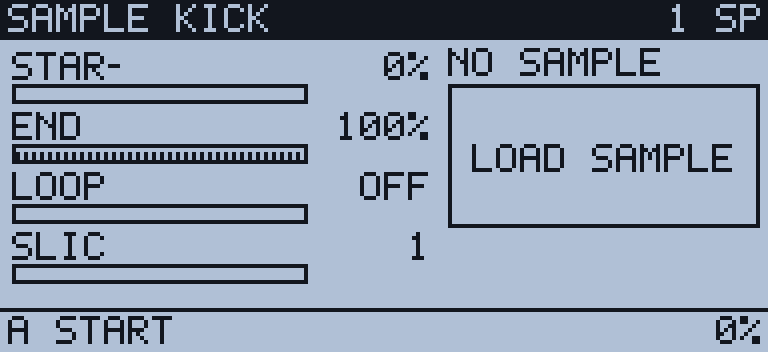
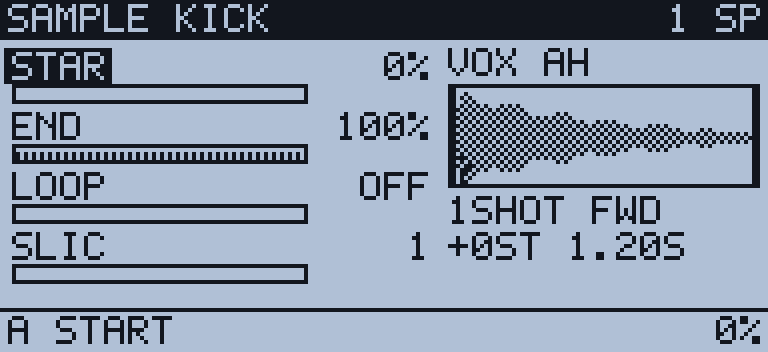
LCD legibility pass: inverse focus, exact knockout, honest page content
- Added Lcd.inverseText(): knocks glyphs out of an exactly-sized bar with one pixel of
  bearing, so selected rows and the focused parameter label stay crisp instead of
  being destroyed by a fill drawn over the text.
- Focused parameter labels are now inverted (hardware behaviour) rather than marked
  with an arrow that read like part of the label ('SPEE-' / 'P.EN-').
- PATTERN rows are label-only with number + M/S/play marker, 5-char names and a wider
  grid, matching the reference pattern screen.
- MOD page shows the real modulation routing instead of repeating the four sliders.
- SETUP reports actual state (host, audio, contrast, position as bars.beats in BPM
  from the engine frame counter) instead of a stale clock and a page name.
- SAMPLE page reserves two lines for its readout, so '1SHOT FWD' and '+0ST 1.200S'
  no longer collide.
- MONO blurb clipped to the column; FX page right column no longer overflows.
- LCD shots register the factory samples so the SAMPLE screen renders as in the app.

diff --git a/src/ui/pages.ts b/src/ui/pages.ts
@@ -77,13 +77,13 @@ function slider(
   opts: { focus?: boolean; locked?: boolean; automated?: boolean; label?: string } = {},
 ) {
   const def = PARAM_DEFS[key];
-  const label = (opts.label ?? def?.label ?? key).slice(0, 4);
-  lcd.text(x, y, label);
-  // focus marker sits in the label gutter as a solid bar, never as a glyph that would
-  // collide with the value text on the right
-  if (opts.focus) lcd.focusBar(x + 24, y + 3, 3);
-  if (opts.locked) lcd.text(x + 30, y, '\u00a7');
-  else if (opts.automated) lcd.text(x + 30, y, '~');
+  const label = (opts.label ?? def?.label ?? key).slice(0, 4).padEnd(4, ' ');
+  // Focus is shown the way the hardware shows it: the label is knocked out of a solid
+  // bar. No extra glyph is added, so nothing can be mistaken for part of the label.
+  if (opts.focus) lcd.inverseText(x, y, label, 2, 1);
+  else lcd.text(x, y, label);
+  if (opts.locked) lcd.text(x + 31, y, '\u00a7');
+  else if (opts.automated) lcd.text(x + 31, y, '~');
   lcd.textRight(x + w, y, formatValue(key, norm));
   lcd.valueBar(x, y + 8, w - 30, norm, { bipolar: !!def?.bipolar, h: 5 });
 }
@@ -143,7 +143,7 @@ function drawPattern(lcd: Lcd, store: Store, status: Status) {
   );
 
   const rowH = 8;
-  const gridX = 60;
+  const gridX = 56;
   const cellW = 8;
   const cellInner = 6;
   for (let t = 0; t < 8; t++) {
@@ -151,15 +151,14 @@ function drawPattern(lcd: Lcd, store: Store, status: Status) {
     const tp = pat.tracks[t];
     const p = store.trackParams(t);
     const isCur = t === store.project.currentTrack;
-    if (isCur) lcd.fillRect(0, y - 2, LCD_W, rowH + 1);
-    // track number, current marker, mute flag, name, engine tag
-    lcd.text(1, y, String(t + 1), { inverse: isCur });
-    if (isCur) lcd.text(7, y, '▶', { inverse: true });
-    if (tp.muted || p.mute) lcd.text(7, y, 'M', { inverse: isCur });
-    else if (p.solo) lcd.text(7, y, 'S', { inverse: isCur });
-    lcd.text(14, y, store.kit.tracks[t].name.slice(0, 4), { inverse: isCur });
-    // engine tag (2 chars) in its own column so the name never collides with it
-    lcd.text(40, y, trackTag(p), { inverse: isCur });
+    // selection bar: only behind the label column, so the step grid stays readable.
+    // Shape: "1▶NAME" (number, play marker or M/S flag, name) then the engine tag.
+    // PATTERN rows are label-only (the engine tag lives on KIT/SOUND), which keeps the
+    // step grid wide and matches the hardware's pattern screen.
+    const flag = tp.muted || p.mute ? 'M' : p.solo ? 'S' : isCur ? '\u25b6' : ' ';
+    const label = `${t + 1}${flag} ${store.kit.tracks[t].name.slice(0, 5)}`;
+    if (isCur) lcd.inverseText(1, y, label, 2, 1);
+    else lcd.text(1, y, label);
     // steps
     for (let i = 0; i < viewSteps; i++) {
       const stepIndex = pageStart + i;
@@ -212,10 +211,12 @@ function drawKit(lcd: Lcd, store: Store, status: Status) {
     const p = store.trackParams(t);
     const isCur = t === store.project.currentTrack;
     // Hardware-style selection: a solid bar with the row knocked out of it.
-    if (isCur) lcd.fillRect(0, y - 2, LCD_W, rowH + 1);
-    lcd.text(1, y, String(t + 1), { inverse: isCur });
-    lcd.text(8, y, store.kit.tracks[t].name.slice(0, 8), { inverse: isCur });
-    lcd.text(60, y, trackTag(p), { inverse: isCur });
+    if (isCur) lcd.inverseText(1, y, ` ${t + 1} ${store.kit.tracks[t].name.slice(0, 8).padEnd(8, ' ')}`, 2, 1);
+    else {
+      lcd.text(1, y, String(t + 1));
+      lcd.text(8, y, store.kit.tracks[t].name.slice(0, 8));
+    }
+    lcd.text(60, y, trackTag(p));
     // engine detail line
     let detail = '';
     if (p.engine === 'fm') detail = `${FM_ALGOS[Math.round(p.fm.algorithm)].name} I${Math.round(p.fm.index * 100)}`;
@@ -314,33 +315,41 @@ function drawMix(lcd: Lcd, store: Store, status: Status) {
 /* ---------------------------------------------------------------- SETUP ----- */
 
 function drawSetup(lcd: Lcd, store: Store, status: Status) {
-  header(lcd, store, 'SETUP', status.audio.toUpperCase());
+  header(lcd, store, 'SETUP', status.host === 'WORKLET' ? 'DSP' : 'FALLBACK');
+  const st = store.project.settings;
+  // Left column reports real engine state; "LCD" now reports the actual contrast value
+  // that the renderer uses instead of the name of the page you are on.
   const rows: [string, string][] = [
     ['HOST', status.host],
-    ['AUDIO', status.audio === 'running' ? `RUN ${store.project.settings.masterVol.toFixed(2)}` : status.audio.toUpperCase()],
-    ['CLICK', store.project.settings.click ? 'ON' : 'OFF'],
-    ['AUTOSAVE', store.project.settings.autosave ? 'ON' : 'OFF'],
-    ['QUANTISE', store.project.settings.recQuant ? `1/${store.project.settings.recQuant}` : 'OFF'],
-    ['MIDI CH', String(store.project.settings.midiCh)],
-    ['LCD', store.ui.page === 'sample' ? 'SAMPLE' : 'CONTRAST'],
+    ['AUDIO', status.audio.toUpperCase()],
+    ['CLICK', st.click ? 'ON' : 'OFF'],
+    ['AUTOSAVE', st.autosave ? 'ON' : 'OFF'],
+    ['QUANTISE', st.recQuant ? `1/${st.recQuant}` : 'OFF'],
+    ['MIDI CH', String(st.midiCh)],
+    ['CONTRAST', String(Math.round(st.contrast * 100))],
     ['SAMPLES', String(store.samples.size)],
   ];
   rows.forEach(([k, v], i) => {
     const y = 11 + i * 8;
     lcd.text(2, y, k);
-    lcd.textRight(90, y, v);
+    lcd.textRight(86, y, v);
   });
-  // master meters right side
-  const mx = 104;
+  // master output meters on the right
+  const mx = 96;
   lcd.text(mx, 11, 'OUT L/R');
   for (let i = 0; i < 2; i++) {
     const v = i === 0 ? status.masterL : status.masterR;
-    lcd.valueBar(mx, 20 + i * 8, 84, Math.min(1, v * 1.4), { h: 6 });
+    lcd.valueBar(mx, 20 + i * 8, 92, Math.min(1, v * 1.4), { h: 6 });
   }
-  lcd.text(mx, 40, 'CLOCK');
-  lcd.text(mx, 48, `${(status.frames / 44100).toFixed(1)}S`);
-  lcd.text(mx, 56, `TEMPO ${store.pattern.tempo.toFixed(1)}`);
-  footer(lcd, 'C:TEMPO D:METRONOME', 'PAGE ↕');
+  // transport readout: bars:beats from the engine frame counter, not wall clock
+  const p = store.pattern;
+  const beats = (status.frames / 44100) * (p.tempo / 60);
+  const bar = Math.floor(beats / 4) + 1;
+  const beat = Math.floor(beats % 4) + 1;
+  lcd.text(mx, 40, `POS ${bar}.${beat}`);
+  lcd.text(mx, 48, `${p.tempo.toFixed(1)}BPM`);
+  lcd.text(mx, 56, `${Math.round(44100 / 100) / 10}KHZ`);
+  footer(lcd, 'C:TEMPO D:CLICK', 'A:HELP');
 }
 
 /* ------------------------------------------------------------- PARAM PAGES --- */
@@ -478,7 +487,8 @@ function drawFMVisual(lcd: Lcd, p: TrackParams, x: number, y: number, w: number,
 function drawMonoVisual(lcd: Lcd, p: TrackParams, x: number, y: number, w: number, h: number) {
   const info = MONO_ENGINE_INFO[p.mono.engine];
   lcd.text(x, y, info.name);
-  lcd.text(x, y + 7, info.blurb.slice(0, 20));
+  // clip the blurb to the column: 6px per glyph, never past the LCD edge
+  lcd.text(x, y + 7, info.blurb.slice(0, Math.floor((LCD_W - x - 2) / 6)));
   const mid = y + 30 + Math.floor((h - 30) / 2);
   const innerH = Math.floor((h - 34) / 2);
   lcd.rect(x, y + 28, w, h - 30);
@@ -531,7 +541,7 @@ function drawSampleVisual(
   const meta = s.sampleId ? store.samples.get(s.sampleId) : null;
   lcd.text(x, y, (meta?.name ?? 'NO SAMPLE').slice(0, 14));
   const waveY = y + 9;
-  const waveH = h - (detailed ? 26 : 18);
+  const waveH = h - (detailed ? 36 : 18);
   lcd.rect(x, waveY, w, waveH);
   if (!meta) {
     lcd.text(x + 6, waveY + Math.floor(waveH / 2) - 3, 'LOAD SAMPLE');
@@ -567,9 +577,14 @@ function drawSampleVisual(
     }
   }
   if (detailed) {
-    lcd.text(x, waveY + waveH + 2, s.loopMode === 'off' ? '1SHOT' : s.loopMode === 'forward' ? 'LOOP' : 'PING');
-    lcd.text(x + 34, waveY + waveH + 2, s.reverse ? 'REV' : 'FWD');
-    lcd.textRight(x + w, waveY + waveH + 2, `${s.slices}SL ${s.pitch >= 0 ? '+' : ''}${s.pitch}ST`);
+    // Two short lines instead of one crowded one: play mode / direction / slices, then
+    // the pitch in semitones. Nothing is truncated or overlapped.
+    // The info column is 13 characters wide, so each line must fit on its own.
+    const row1 = waveY + waveH + 2;
+    const mode = s.loopMode === 'off' ? '1SHOT' : s.loopMode === 'forward' ? 'LOOP' : 'PING';
+    lcd.text(x, row1, `${mode} ${s.reverse ? 'REV' : 'FWD'}`);
+    const dur = meta.frames / meta.sampleRate;
+    lcd.text(x, row1 + 9, `${s.pitch >= 0 ? '+' : ''}${s.pitch}ST ${dur < 1 ? `${Math.round(dur * 1000)}MS` : `${dur.toFixed(2)}S`}`);
   }
 }
 
@@ -655,15 +670,23 @@ function drawFxVisual(lcd: Lcd, store: Store, p: TrackParams, x: number, y: numb
 
 function drawModVisual(lcd: Lcd, p: TrackParams, x: number, y: number, w: number, h: number) {
   const keys = ENGINE_PAGES[p.engine].mod;
-  lcd.text(x, y, 'MODULATION');
-  keys.forEach((k, i) => {
-    const yy = y + 11 + i * 11;
-    lcd.text(x, yy, (PARAM_DEFS[k]?.label ?? '').slice(0, 7));
-    lcd.valueBar(x + 42, yy + 1, w - 42, getNorm(p, k), {
-      h: 6, bipolar: !!PARAM_DEFS[k]?.bipolar,
-    });
+  // The four macros are already on the left as sliders, so this column shows what they
+  // feed: the modulation routing, as a source -> destination list.
+  lcd.text(x, y, 'ROUTING');
+  const rows: [string, string][] = [
+    ['P.ENV', 'PITCH'],
+    ['P.DEC', 'PITCH'],
+    ['LFO', p.lfo.dest],
+    ['VEL', 'LEVEL'],
+  ];
+  rows.forEach(([src, dst], i) => {
+    const yy = y + 11 + i * 9;
+    lcd.text(x, yy, src);
+    lcd.text(x + 36, yy, '>');
+    lcd.text(x + 44, yy, dst);
   });
-  lcd.text(x, y + h - 8, `LFO→${p.lfo.dest}`);
+  const amount = Math.round(p.lfo.depth * 100);
+  lcd.text(x, y + h - 8, `LFO ${amount}% ${p.lfo.shape}`);
 }
 
 /* ------------------------------------------------------- page strip helper --- */

diff --git a/src/ui/lcd.ts b/src/ui/lcd.ts
@@ -123,7 +123,31 @@ export class Lcd {
    * prints it. Cheap, unambiguous, and never collides with a glyph.
    */
   focusBar(x: number, y: number, w: number) {
-    this.hLine(x, y, Math.max(3, w));
+    // A filled triangle pointing at the focused label, the panel's own cue.
+    const n = Math.max(3, w);
+    for (let i = 0; i < n; i++) this.hLine(x, y + i - Math.floor(n / 2), n - i);
+  }
+
+  /**
+   * Draw text knocked out of a solid bar. Uses `unpx` for the glyphs so the bar can be
+   * exactly one pixel wider than the string on every side and the letters stay crisp.
+   */
+  inverseText(x: number, y: number, str: string, padX = 2, padY = 2) {
+    const s = str.toUpperCase();
+    const w = s.length * (GLYPH_W + 1) - 1;
+    this.fillRect(x - padX, y - padY, w + padX * 2, GLYPH_H + padY * 2);
+    let cx = x;
+    for (let i = 0; i < s.length; i++) {
+      const g = glyph(s[i]);
+      for (let r = 0; r < GLYPH_H; r++) {
+        const bits = g[r];
+        if (!bits) continue;
+        for (let c = 0; c < GLYPH_W; c++) {
+          if (bits & (1 << (GLYPH_W - 1 - c))) this.unpx(cx + c, y + r);
+        }
+      }
+      cx += GLYPH_W + 1;
+    }
   }
 
   /** Draw text. `inverse` draws a filled bar behind the glyphs. */

diff --git a/scripts/lcd-shots.ts b/scripts/lcd-shots.ts
@@ -9,6 +9,7 @@ import { Lcd, LCD_W, LCD_H } from '../src/ui/lcd';
 import { drawScreen } from '../src/ui/pages';
 import type { Screen, Status } from '../src/ui/pages';
 import { Store } from '../src/state/store';
+import { buildFactorySamples } from '../src/audio/sample';
 
 installCanvasStubs();
 
@@ -62,6 +63,9 @@ function png(w: number, h: number, rgb: Uint8Array, scale: number): Buffer {
 
 const lcd = new Lcd(new StubCanvas() as unknown as HTMLCanvasElement);
 const store = new Store();
+// the real app registers the synthesised factory samples at boot; do the same so the
+// SAMPLE page renders with an actual sample loaded
+for (const s of buildFactorySamples(44100)) store.addSampleMeta(s.meta);
 const status: Status = {
   playing: true,
   steps: [0, 4, 8, 12, 2, 6, 10, 14],
